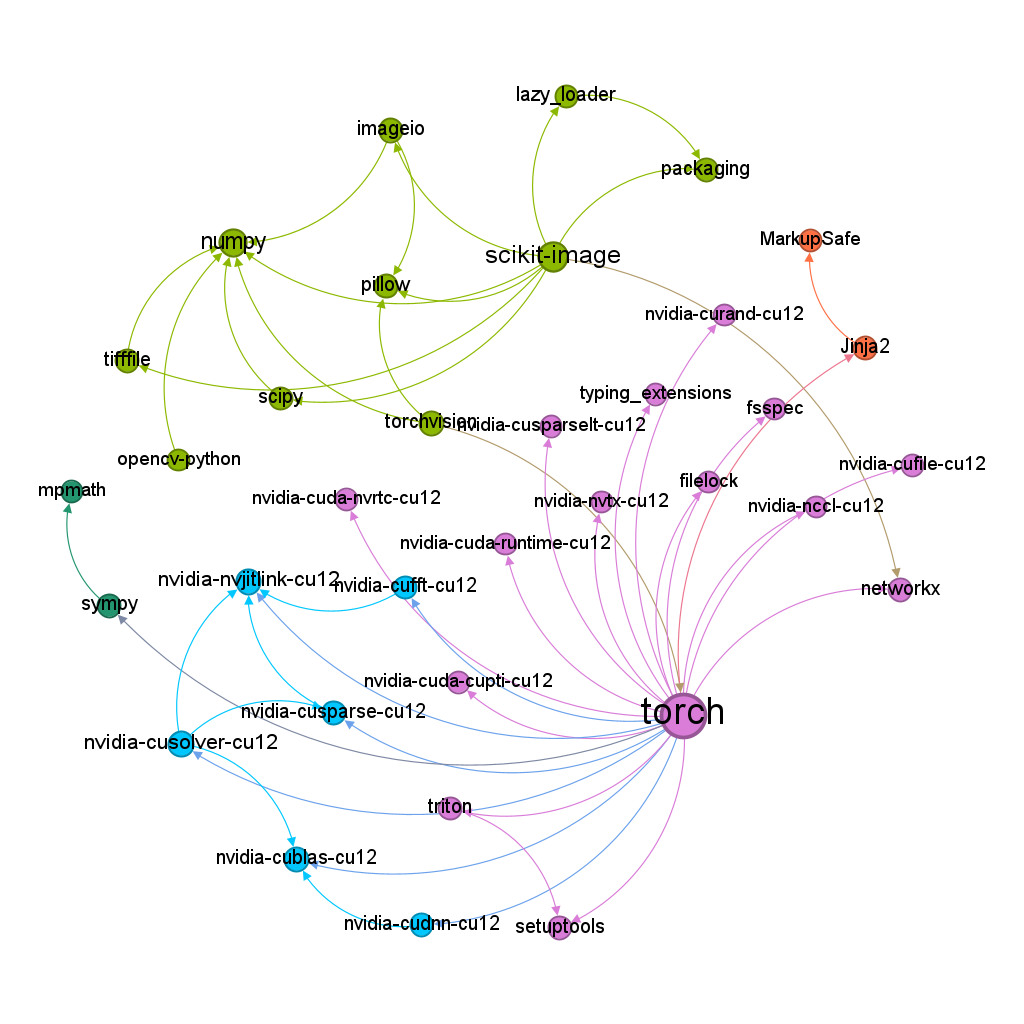
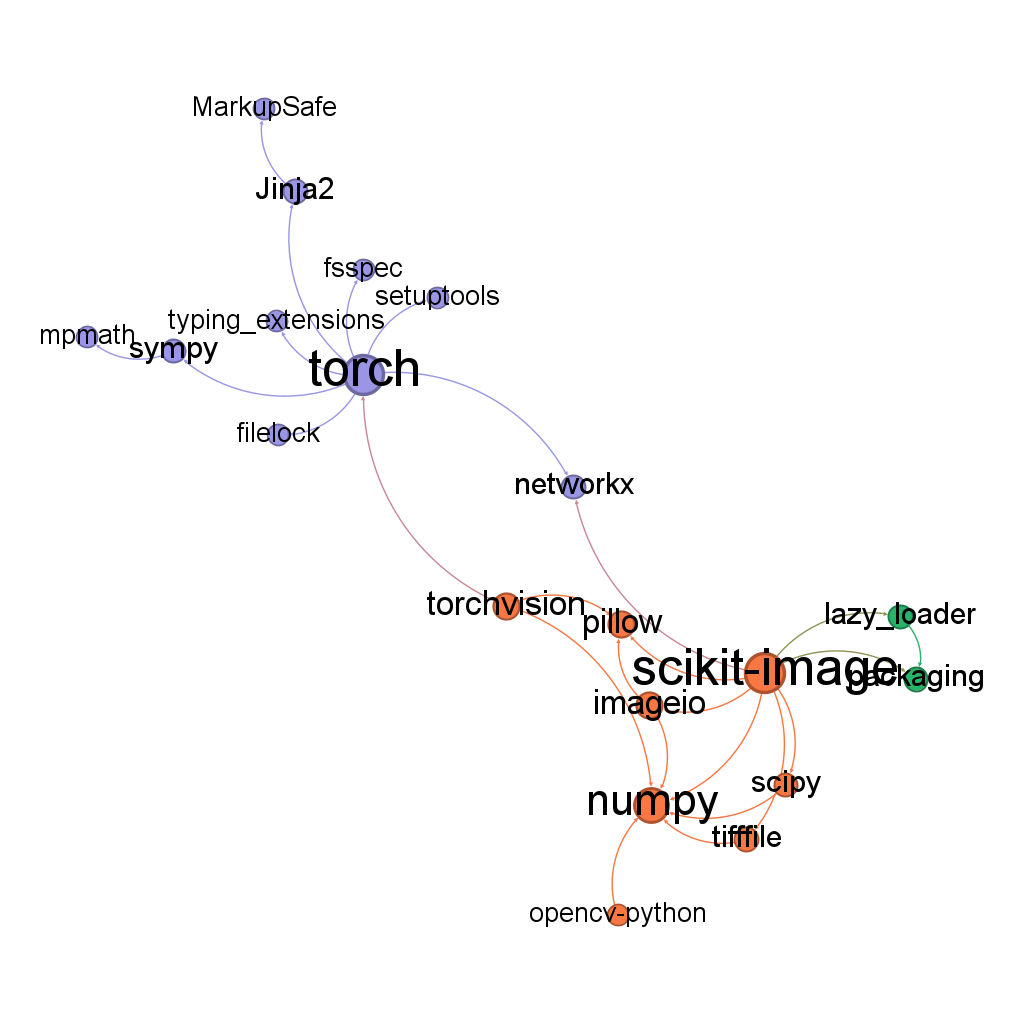
Update graph metrics and replace visual assets in README

diff --git a/README.md b/README.md
@@ -115,11 +115,9 @@ pip install -r requirements.txt
 ![Grafo das bibliotecas de visão computacional, colorido por biblioteca](assets/grafos/vc_temas.png)  
 ![Legenda do grafo](assets/legendas/visao_comp.png)
 
-#### Métricas do grafo:
-
 **Métricas:**
-- Nós: 35 | Arestas: 48  
-- Densidade: 0.04 → conexões especializadas  
+- Nós: 20 | Arestas: 26  
+- Densidade: 0.0684 → conexões especializadas  
 - Assortatividade: -0.4758 → rede disassortativa, com principal hub sendo `torch`  
 - Tamanho dos nós baseado no grau   
 
